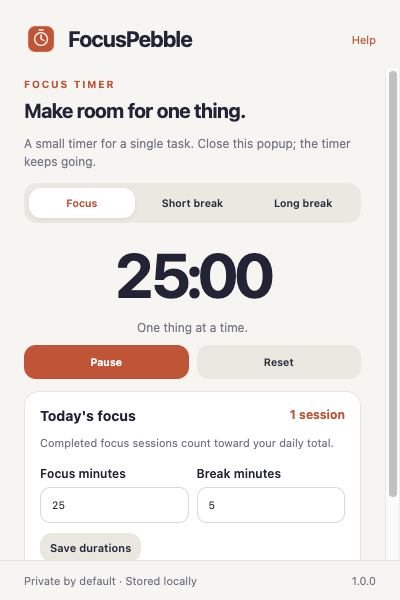
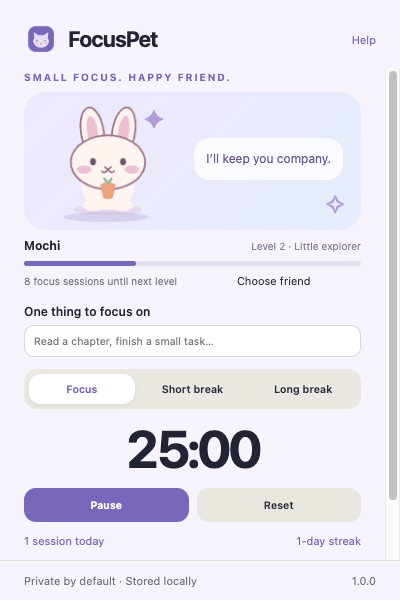
Launch new brand, expanded workflows, and store presentation

diff --git a/extension/background.js b/extension/background.js
@@ -1,9 +1,9 @@
 import {defaults,remaining,finishTimer} from './model.js';
 let queue=Promise.resolve();
 function serialize(work){const result=queue.then(work);queue=result.catch(()=>{});return result;}
-async function read(){const d=await chrome.storage.local.get(['timer','durations','stats']);return {timer:d.timer||{mode:'focus',remaining:25*60000,running:false,finished:false},durations:{...defaults,...d.durations},stats:d.stats||{}};}
-async function finish(){const d=await read();const update=finishTimer(d.timer,d.stats);if(!update)return d;const stats=Object.fromEntries(Object.entries(update.stats).sort(([a],[b])=>b.localeCompare(a)).slice(0,90));await chrome.storage.local.set({timer:update.timer,stats});await chrome.alarms.clear('finish');await chrome.action.setBadgeText({text:''});try{await chrome.notifications.create('focuspebble-done',{type:'basic',iconUrl:'icons/icon128.png',title:d.timer.mode==='focus'?'Focus complete':'Break complete',message:d.timer.mode==='focus'?'Nice work. Take a breath and choose your next step.':'Ready for another focus session?',priority:1});}catch{}return {...d,timer:update.timer,stats};}
-async function handle(message){let d=await finish();let timer={...d.timer};const now=Date.now();switch(message.type){case 'get':return d;case 'start':if(timer.running)return d;if(timer.remaining<=0)timer.remaining=d.durations[timer.mode]*60000;timer={...timer,running:true,finished:false,endAt:now+timer.remaining};break;case 'pause':timer={...timer,remaining:remaining(timer,now),running:false};break;case 'reset':timer={mode:timer.mode,remaining:d.durations[timer.mode]*60000,running:false,finished:false};break;case 'mode':if(!['focus','short','long'].includes(message.mode))throw Error('Invalid mode.');timer={mode:message.mode,remaining:d.durations[message.mode]*60000,running:false,finished:false};break;case 'settings':if(!Number.isInteger(message.focus)||message.focus<1||message.focus>120||!Number.isInteger(message.short)||message.short<1||message.short>60)throw Error('Use whole minutes: focus 1–120, break 1–60.');d.durations={...d.durations,focus:message.focus,short:message.short};await chrome.storage.local.set({durations:d.durations});if(!timer.running)timer={...timer,remaining:d.durations[timer.mode]*60000,finished:false};break;default:throw Error('Unsupported timer action.');}await chrome.storage.local.set({timer});if(timer.running){await chrome.alarms.create('finish',{when:timer.endAt});await chrome.action.setBadgeBackgroundColor({color:'#bf5437'});await chrome.action.setBadgeText({text:timer.mode==='focus'?'ON':'BRK'});}else{await chrome.alarms.clear('finish');await chrome.action.setBadgeText({text:''});}return {...d,timer};}
+async function read(){const d=await chrome.storage.local.get(['timer','durations','stats','pet','task']);return {timer:d.timer||{mode:'focus',remaining:25*60000,running:false,finished:false},durations:{...defaults,...d.durations},stats:d.stats||{},pet:d.pet||{total:Object.values(d.stats||{}).reduce((a,b)=>a+b,0),kind:'cat',name:'Mochi'},task:d.task||''};}
+async function finish(){const d=await read();const update=finishTimer(d.timer,d.stats);if(!update)return d;const stats=Object.fromEntries(Object.entries(update.stats).sort(([a],[b])=>b.localeCompare(a)).slice(0,90));const pet={...d.pet,total:d.pet.total+(d.timer.mode==='focus'?1:0)};await chrome.storage.local.set({timer:update.timer,stats,pet});await chrome.alarms.clear('finish');await chrome.action.setBadgeText({text:''});try{await chrome.notifications.create('focuspebble-done',{type:'basic',iconUrl:'icons/icon128.png',title:d.timer.mode==='focus'?'Focus complete':'Break complete',message:d.timer.mode==='focus'?'Nice work. Take a breath and choose your next step.':'Ready for another focus session?',priority:1});}catch{}return {...d,timer:update.timer,stats,pet};}
+async function handle(message){let d=await finish();let timer={...d.timer};const now=Date.now();switch(message.type){case 'get':return d;case 'task':d.task=String(message.task||'').slice(0,100);await chrome.storage.local.set({task:d.task});return d;case 'pet':if(!['cat','bunny'].includes(message.kind))throw Error('Choose a cat or bunny.');d.pet={...d.pet,kind:message.kind,name:String(message.name||'Mochi').trim().slice(0,30)||'Mochi'};await chrome.storage.local.set({pet:d.pet});return d;case 'start':if(timer.running)return d;if(timer.remaining<=0)timer.remaining=d.durations[timer.mode]*60000;timer={...timer,running:true,finished:false,endAt:now+timer.remaining};break;case 'pause':timer={...timer,remaining:remaining(timer,now),running:false};break;case 'reset':timer={mode:timer.mode,remaining:d.durations[timer.mode]*60000,running:false,finished:false};break;case 'mode':if(!['focus','short','long'].includes(message.mode))throw Error('Invalid mode.');timer={mode:message.mode,remaining:d.durations[message.mode]*60000,running:false,finished:false};break;case 'settings':if(!Number.isInteger(message.focus)||message.focus<1||message.focus>120||!Number.isInteger(message.short)||message.short<1||message.short>60)throw Error('Use whole minutes: focus 1–120, break 1–60.');d.durations={...d.durations,focus:message.focus,short:message.short};await chrome.storage.local.set({durations:d.durations});if(!timer.running)timer={...timer,remaining:d.durations[timer.mode]*60000,finished:false};break;default:throw Error('Unsupported timer action.');}await chrome.storage.local.set({timer});if(timer.running){await chrome.alarms.create('finish',{when:timer.endAt});await chrome.action.setBadgeBackgroundColor({color:'#bf5437'});await chrome.action.setBadgeText({text:timer.mode==='focus'?'ON':'BRK'});}else{await chrome.alarms.clear('finish');await chrome.action.setBadgeText({text:''});}return {...d,timer};}
 chrome.runtime.onMessage.addListener((message,sender,respond)=>{if(sender.id!==chrome.runtime.id)return;serialize(()=>handle(message)).then(data=>respond({ok:true,data}),error=>respond({ok:false,error:error.message}));return true;});
 chrome.alarms.onAlarm.addListener(alarm=>{if(alarm.name==='finish')serialize(finish);});
 async function recover(){const d=await finish();if(d.timer.running)await chrome.alarms.create('finish',{when:d.timer.endAt});}

diff --git a/extension/popup.js b/extension/popup.js
@@ -1,8 +1,6 @@
-import {$,status} from './shared.js';import {remaining,localDay} from './model.js';let state;
-function clock(){if(!state)return;const seconds=Math.ceil(remaining(state.timer)/1000);$('#clock').textContent=`${String(Math.floor(seconds/60)).padStart(2,'0')}:${String(seconds%60).padStart(2,'0')}`;if(state.timer.running&&seconds===0)send('get').catch(()=>{});}
-function render(){const t=state.timer;document.querySelectorAll('[data-mode]').forEach(e=>e.classList.toggle('selected',e.dataset.mode===t.mode));$('#start').textContent=t.running?'Pause':`Start ${t.mode==='focus'?'focus':'break'}`;$('#timer-label').textContent=t.running?'One thing at a time.':t.finished?'Finished. Choose a break or start again.':t.remaining<state.durations[t.mode]*60000?'Paused. Resume when ready.':'Ready when you are.';$('#completed').textContent=`${state.stats[localDay(Date.now())]||0} ${(state.stats[localDay(Date.now())]||0)===1?'session':'sessions'}`;clock();}
-async function send(type,extra={}){const response=await chrome.runtime.sendMessage({type,...extra});if(!response?.ok)throw Error(response?.error||'Timer unavailable. Reopen the popup.');state=response.data;render();return state;}
+import {$,status,node} from './shared.js';import {remaining,localDay,petStage,streak} from './model.js';let state,pending=false;
+function clock(){if(!state)return;const seconds=Math.ceil(remaining(state.timer)/1000);$('#clock').textContent=`${String(Math.floor(seconds/60)).padStart(2,'0')}:${String(seconds%60).padStart(2,'0')}`;if(state.timer.running&&seconds===0&&!pending)send('get').catch(()=>{});}
+function render(){const t=state.timer,pet=state.pet,stage=petStage(pet.total);document.querySelectorAll('[data-mode]').forEach(e=>e.classList.toggle('selected',e.dataset.mode===t.mode));$('#start').textContent=t.running?'Pause':`Start ${t.mode==='focus'?'focus':'break'}`;$('#pet-scene').classList.toggle('working',t.running&&t.mode==='focus');$('#pet-scene').classList.toggle('resting',!t.running||t.mode!=='focus');$('#pet-image').src=`pets/${pet.kind}.svg`;$('#pet-name').textContent=pet.name;$('#pet-level').textContent=`Level ${stage.level} · ${stage.name}`;$('#pet-bubble').textContent=t.finished?'You did it. Take a little breath.':t.running?(t.mode==='focus'?'I’ll keep you company.':'Time to stretch our paws.'):'Let’s do one small thing.';$('#growth-bar').style.width=`${stage.next?Math.min(100,pet.total/stage.next*100):100}%`;$('#growth-label').textContent=stage.next?`${stage.next-pet.total} focus sessions until next level`:'Your little moon guardian is all grown up.';const count=state.stats[localDay(Date.now())]||0;$('#completed').textContent=`${count} ${count===1?'session':'sessions'} today`;const days=streak(state.stats);$('#streak').textContent=days?`${days}-day streak`:'A fresh start';const week=$('#week');week.replaceChildren();for(let i=6;i>=0;i--){const d=new Date();d.setDate(d.getDate()-i);const n=state.stats[localDay(d.getTime())]||0;const col=node('div',undefined,'week-day');const bar=node('div',undefined,'week-bar');bar.style.height=`${Math.min(50,n*8)+4}px`;bar.title=`${n} sessions`;col.append(node('span',String(n),'muted'),bar,node('span',d.toLocaleDateString(undefined,{weekday:'narrow'}),'muted'));week.append(col);}clock();}
+async function send(type,extra={}){pending=true;try{const response=await chrome.runtime.sendMessage({type,...extra});if(!response?.ok)throw Error(response?.error||'Timer unavailable. Reopen the popup.');state=response.data;render();return state;}finally{pending=false;}}
 async function run(type,extra){try{await send(type,extra);status('');}catch(e){status(e.message);}}
-$('#start').onclick=()=>run(state?.timer.running?'pause':'start');$('#reset').onclick=()=>run('reset');document.querySelectorAll('[data-mode]').forEach(e=>e.onclick=async()=>{if(state?.timer.running&&!confirm('Stop the current timer and switch modes?'))return;await run('mode',{mode:e.dataset.mode});});
-$('#settings').onclick=async()=>{await run('settings',{focus:Number($('#focus-minutes').value),short:Number($('#break-minutes').value)});};
-send('get').then(d=>{$('#focus-minutes').value=d.durations.focus;$('#break-minutes').value=d.durations.short;}).catch(e=>status(e.message));setInterval(clock,500);chrome.storage.onChanged.addListener((_,area)=>{if(area==='local')send('get').catch(e=>status(e.message));});
+$('#start').onclick=async()=>{if(!state)return;await run('task',{task:$('#task').value});await run(state.timer.running?'pause':'start');};$('#task').onchange=()=>run('task',{task:$('#task').value});$('#reset').onclick=()=>run('reset');document.querySelectorAll('[data-mode]').forEach(e=>e.onclick=async()=>{if(state?.timer.running&&!confirm('Stop the current timer and switch modes?'))return;await run('mode',{mode:e.dataset.mode});});$('#settings').onclick=()=>run('settings',{focus:Number($('#focus-minutes').value),short:Number($('#break-minutes').value)});$('#customize').onclick=()=>{$('#custom-panel').hidden=!$('#custom-panel').hidden;$('#pet-kind').value=state.pet.kind;$('#pet-name-input').value=state.pet.name;};$('#save-pet').onclick=async()=>{await run('pet',{kind:$('#pet-kind').value,name:$('#pet-name-input').value});$('#custom-panel').hidden=true;};send('get').then(d=>{$('#focus-minutes').value=d.durations.focus;$('#break-minutes').value=d.durations.short;$('#task').value=d.task;}).catch(e=>status(e.message));setInterval(clock,500);chrome.storage.onChanged.addListener((_,area)=>{if(area==='local')send('get').catch(e=>status(e.message));});

diff --git a/extension/popup.html b/extension/popup.html
@@ -1,1 +1,1 @@
-<!doctype html><html lang="en"><head><meta charset="utf-8"><meta name="viewport" content="width=device-width,initial-scale=1"><title>FocusPebble</title><link rel="stylesheet" href="style.css"></head><body><header><div><img src="icons/icon48.png" alt=""><h1>FocusPebble</h1></div><a class="brand-link" href="privacy.html" target="_blank">Help</a></header><main><div class="eyebrow">FOCUS TIMER</div><h2>Make room for one thing.</h2><p class="muted">A small timer for a single task. Close this popup; the timer keeps going.</p><div class="tabs"><button data-mode="focus" class="selected">Focus</button><button data-mode="short">Short break</button><button data-mode="long">Long break</button></div><div id="clock" class="clock" role="timer" aria-label="Time remaining">25:00</div><p class="center muted" id="timer-label">Ready when you are.</p><div class="row"><button id="start" class="primary">Start focus</button><button id="reset">Reset</button></div><section class="card"><div class="note-title"><h3>Today's focus</h3><span id="completed" class="count">0 sessions</span></div><p class="muted">Completed focus sessions count toward your daily total.</p><div class="row"><div><label for="focus-minutes">Focus minutes</label><input id="focus-minutes" type="number" min="1" max="120" value="25"></div><div><label for="break-minutes">Break minutes</label><input id="break-minutes" type="number" min="1" max="60" value="5"></div></div><button id="settings" class="small" style="margin-top:10px">Save durations</button></section><p id="status" class="status" role="status" aria-live="polite"></p></main><footer><span>Private by default · Stored locally</span><span>1.0.0</span></footer><script type="module" src="popup.js"></script></body></html>
+<!doctype html><html lang="en"><head><meta charset="utf-8"><meta name="viewport" content="width=device-width,initial-scale=1"><title>FocusPet</title><link rel="stylesheet" href="style.css"></head><body><header><div><img src="icons/icon48.png" alt=""><h1>FocusPet</h1></div><a class="brand-link" href="privacy.html" target="_blank">Help</a></header><main><div class="eyebrow">SMALL FOCUS. HAPPY FRIEND.</div><div class="pet-scene" id="pet-scene"><div class="spark s1">✦</div><div class="spark s2">✧</div><img id="pet-image" src="pets/cat.svg" alt="Your focus companion"><div class="pet-shadow"></div><span class="pet-bubble" id="pet-bubble">Let's do one small thing.</span></div><div class="pet-info"><strong id="pet-name">Mochi</strong><span id="pet-level">Level 1 · Sleepy seedling</span></div><div class="growth"><div id="growth-bar"></div></div><div class="row"><span class="muted" id="growth-label">4 focus sessions to grow</span><button id="customize" class="quiet small">Choose friend</button></div><section id="custom-panel" class="card" hidden><label for="pet-kind">Your companion</label><div class="row"><select id="pet-kind"><option value="cat">Cat</option><option value="bunny">Bunny</option></select><input id="pet-name-input" maxlength="30" placeholder="Friend's name" aria-label="Companion name"><button id="save-pet" class="primary small">Save</button></div></section><label for="task">One thing to focus on</label><input id="task" maxlength="100" placeholder="Read a chapter, finish a small task…"><div class="tabs" style="margin-top:12px"><button data-mode="focus" class="selected">Focus</button><button data-mode="short">Short break</button><button data-mode="long">Long break</button></div><div id="clock" class="clock" role="timer" aria-label="Time remaining">25:00</div><div class="row"><button id="start" class="primary">Start focus</button><button id="reset">Reset</button></div><div class="daily-summary"><span id="completed">0 sessions today</span><span id="streak">A fresh start</span></div><details class="settings-details"><summary>Timer settings & weekly progress</summary><div class="row"><div><label for="focus-minutes">Focus minutes</label><input id="focus-minutes" type="number" min="1" max="120" value="25"></div><div><label for="break-minutes">Break minutes</label><input id="break-minutes" type="number" min="1" max="60" value="5"></div></div><button id="settings" class="small" style="margin-top:10px">Save durations</button><div id="week" class="week"></div></details><p id="status" class="status" role="status" aria-live="polite"></p></main><footer><span>Private by default · Stored locally</span><span>1.1.0</span></footer><script type="module" src="popup.js"></script></body></html>

diff --git a/extension/style.css b/extension/style.css
@@ -4,3 +4,5 @@
 body:not(.library){height:600px;display:flex;flex-direction:column}body:not(.library) main{flex:1;overflow-y:auto;min-height:0}body:not(.library) header,body:not(.library) footer{flex-shrink:0}.library{display:block;height:auto}
 
 .clock{font-size:62px;margin:15px 0 5px}.center{margin:8px 0}.card p{font-size:11px}.card label{margin-top:8px}
+
+:root{--accent:#7867ba;background:#f7f4fd}.pet-scene{position:relative;height:138px;margin:9px 0 4px;background:linear-gradient(135deg,#efe8fc,#e4edfb);border-radius:22px;overflow:hidden}.pet-scene>img{position:absolute;bottom:7px;left:24px;width:120px;height:120px;z-index:2}.pet-shadow{position:absolute;bottom:8px;left:40px;width:84px;height:10px;background:#b8aed8;border-radius:50%;opacity:.4}.pet-bubble{position:absolute;right:18px;top:46px;max-width:155px;font-size:12px;line-height:1.5;background:#fffc;padding:12px;border-radius:16px;color:#66558c}.spark{position:absolute;color:#b19cd9;font-size:25px}.s1{top:12px;left:120px}.s2{right:16px;bottom:12px}.working>img{animation:bob 3s ease-in-out infinite}.resting>img{animation:breath 5s ease-in-out infinite}@keyframes bob{50%{transform:translateY(-5px) rotate(2deg)}}@keyframes breath{50%{transform:scale(1.03)}}@media(prefers-reduced-motion:reduce){.working>img,.resting>img{animation:none}}.pet-info{display:flex;justify-content:space-between;align-items:center;margin:8px 0;font-size:12px}.pet-info>span{color:#867991;font-size:10px}.growth{height:5px;background:#e6dff1;border-radius:5px;overflow:hidden}.growth>div{height:100%;background:var(--accent);border-radius:5px}.clock{font-size:52px;margin:9px 0;letter-spacing:-3px}.daily-summary{display:flex;justify-content:space-between;font-size:11px;color:var(--accent);margin:12px 0}.settings-details{font-size:12px;color:#777182;margin-top:8px}.settings-details summary{cursor:pointer}.week{display:flex;gap:9px;justify-content:space-between;align-items:flex-end;height:85px;margin-top:12px}.week-day{display:flex;align-items:center;flex-direction:column;gap:3px;flex:1}.week-bar{width:22px;background:#bca7e3;border-radius:4px}.primary{background:var(--accent)}body:not(.library) main{padding-top:3px}#task{padding:9px}label{margin-top:9px}#growth-label{font-size:10px}

diff --git a/tests/model.test.js b/tests/model.test.js
@@ -2,3 +2,5 @@ import {test} from 'node:test';import assert from 'node:assert/strict';import {r
 test('remaining time uses absolute deadline across restarts',()=>{assert.equal(remaining({running:true,endAt:10000},7500),2500);assert.equal(remaining({running:true,endAt:10000},11000),0);assert.equal(remaining({running:false,remaining:3200},90000),3200);});
 test('records expired focus once and assigns its planned completion day',()=>{const endAt=new Date(2026,1,2,23,59).getTime();const done=finishTimer({running:true,endAt,mode:'focus'}, {},endAt+100000);assert.equal(done.stats[localDay(endAt)],1);assert.equal(finishTimer(done.timer,done.stats,endAt+200000),null);});
 test('breaks do not increase focus count and future alarms do not complete',()=>{assert.equal(finishTimer({running:true,endAt:1000,mode:'focus'}, {},999),null);assert.deepEqual(finishTimer({running:true,endAt:1000,mode:'short'}, {},1001).stats,{});});
+import {petStage,streak} from '../extension/model.js';
+test('companion levels and recent streak follow completed work',()=>{assert.equal(petStage(3).level,1);assert.equal(petStage(4).level,2);assert.equal(petStage(30).next,null);const today=new Date(2026,9,16,12).getTime();const yesterday=new Date(2026,9,15,12).getTime();assert.equal(streak({[localDay(today)]:1,[localDay(yesterday)]:2},today),2);assert.equal(streak({[localDay(yesterday)]:1},today),1);});

diff --git a/extension/model.js b/extension/model.js
@@ -2,3 +2,6 @@ export const defaults={focus:25,short:5,long:15};
 export function remaining(timer,now=Date.now()){return Math.max(0,timer.running?timer.endAt-now:timer.remaining);}
 export function localDay(now){const d=new Date(now);return `${d.getFullYear()}-${String(d.getMonth()+1).padStart(2,'0')}-${String(d.getDate()).padStart(2,'0')}`;}
 export function finishTimer(timer,stats,now=Date.now()){if(!timer.running||timer.endAt>now)return null;const day=localDay(timer.endAt);return {timer:{...timer,running:false,remaining:0,finished:true},stats:timer.mode==='focus'?{...(stats||{}),[day]:((stats||{})[day]||0)+1}:stats||{}};}
+
+export function petStage(total=0){if(total>=30)return {name:'Moon guardian',level:4,next:null};if(total>=12)return {name:'Study buddy',level:3,next:30};if(total>=4)return {name:'Little explorer',level:2,next:12};return {name:'Sleepy seedling',level:1,next:4};}
+export function streak(stats,now=Date.now()){let count=0;const d=new Date(now);if(!(stats[localDay(d.getTime())]>0))d.setDate(d.getDate()-1);while(stats[localDay(d.getTime())]>0){count++;d.setDate(d.getDate()-1);}return count;}

diff --git a/scripts/package.py b/scripts/package.py
@@ -14,7 +14,7 @@ out.parent.mkdir(exist_ok=True)
 with ZipFile(out,'w',ZIP_DEFLATED) as z:
  for p in sorted(source.rglob('*')):
   if p.is_file() and not p.name.startswith('.'):
-   assert p.suffix in {'.json','.html','.css','.js','.png'}
+   assert p.suffix in {'.json','.html','.css','.js','.png','.svg'}
    z.write(p,p.relative_to(source))
 with ZipFile(out) as z: assert z.testzip() is None
 print(f"Validated {m['name']}; created {out.relative_to(ROOT)} ({out.stat().st_size} bytes)")

diff --git a/README.md b/README.md
@@ -1,40 +1,40 @@
-# FocusPebble
+# FocusPet
 
-Make room for one thing.
+A little friend for your next small win.
 
-A simple focus and break timer with browser notifications. Keep your timer across restarts and build a daily focus habit.
+Meet Mochi. Choose a tiny cat or bunny, give your friend a name, and focus on one thing together. Completed focus sessions help your companion grow through four stages.
+
+## Features
+
+- Choose a cat or bunny and customize its name.
+- Grow your companion by finishing focus sessions.
+- Set a task intention and use focus, short-break, or long-break timers.
+- Pause, resume, reset, and adjust focus and short-break durations.
+- Get completion notifications and a running toolbar badge.
+- See daily counts, a recent streak, and weekly focus progress.
+
+## Limits
+
+Your companion is a visual focus aid, not a website blocker. Timers use absolute deadlines and keep their state across popup closure and browser restarts. Notifications can arrive late if Chrome is closed, the device is asleep, or operating-system notification settings block them. FocusPet does not automatically start the next session. Growth reflects completed focus sessions, not measured attention.
 
 ## Development
 
-Open `chrome://extensions`, enable Developer mode, choose **Load unpacked**, and select `extension/`. No build or package dependencies are needed.
+Open `chrome://extensions`, enable Developer mode, choose **Load unpacked**, and select `extension/`. All runtime assets are packaged locally.
 
-Run `npm test` for logic tests and `npm run package` to validate and create a clean ZIP in `dist/`.
+Run `npm test` for logic tests. Run `npm run package` to validate and create an upload ZIP in `dist/`. No build step or runtime package dependencies are required.
 
 ## Privacy
 
-See [PRIVACY.md](PRIVACY.md) for stored data and permission explanations. No accounts, analytics, ads, or developer servers.
+Local data includes timer state, durations, task intention, companion type and name, total completed focus sessions, and up to 90 days of daily counts. No page content or browsing history is accessed.
+
+`storage` persists timer state and companion progress. `alarms` schedules timer completion. `notifications` displays generic completion messages.
+
+See [PRIVACY.md](PRIVACY.md). No developer servers, advertising, or analytics.
 
 ## Support
 
-Report bugs through this repository's issue tracker. Include reproducible steps and the extension version, with private information removed.
+Report reproducible bugs through this repository's issue tracker. Remove private information first.
 
 ## License
 
 MIT.
-
-## Features and limits
-
-FocusPebble is a small focus timer that stays out of your way. Start a focus session, close the popup, and get a browser notification when it finishes.
-
-FEATURES
-- Focus, short break, and long break modes.
-- Adjustable focus and short-break durations; a 15-minute long break.
-- Pause, resume, and reset controls.
-- An absolute deadline that survives popup closure and browser restart.
-- Local daily counts for completed focus sessions.
-- A toolbar badge while the timer is running.
-
-The timer does not block websites or start the next session automatically. Browser notifications depend on Chrome and operating-system notification settings. If the computer sleeps or Chrome is closed, a notification can arrive after waking or reopening Chrome.
-
-PRIVACY
-Timer state, durations, and daily completion counts stay on this device. No accounts, analytics, advertising, or developer servers.

diff --git a/PRIVACY.md b/PRIVACY.md
@@ -1,23 +1,21 @@
-# FocusPebble privacy policy
+# FocusPet privacy policy
 
 Effective date: 2026-10-16.
 
-## Data and processing
+## Local data and processing
 
-Timer mode, deadline, remaining time, duration settings, and daily completed-focus counts for up to 90 days. No page content or browsing history.
+Local data includes timer state, durations, task intention, companion type and name, total completed focus sessions, and up to 90 days of daily counts. No page content or browsing history is accessed.
 
-All processing happens within the extension on your device. We do not collect, receive, transmit, sell, or share personal data. The extension has no analytics, advertising, remote executable code, developer server, or account requirement.
+Processing happens on your device. The developer does not receive, sell, or transmit this data. The extension has no developer servers, accounts, cloud sync, analytics, advertising, or remote executable code. Local processing can involve sensitive text or URLs supplied by you; the store disclosures describe the data handled by the extension even though it is not sent to the developer.
 
 ## Permissions
 
-- `storage`: save timer state and daily counts.
-- `alarms`: schedule completion while the popup is closed.
-- `notifications`: show completion notifications.
+`storage` persists timer state and companion progress. `alarms` schedules timer completion. `notifications` displays generic completion messages.
 
 ## Retention and control
 
-Local data remains until you remove it through the app, clear extension data, or uninstall the extension. Export and delete controls are available for saved collections and notes. Exported files are controlled by you and may contain private information. Chrome and the Web Store have separate Google privacy policies.
+Local saved data remains until you delete it, clear extension data, or uninstall the extension. Exported files and clipboard contents are controlled by you. The library and collection tools provide delete and backup controls. LinkLoom keeps no persistent link history. FocusPet retains up to 90 days of daily counts and a lifetime companion total. Chrome and its Web Store have separate Google privacy policies.
 
 ## Contact
 
-Use the repository issue tracker or the Chrome Web Store support contact for privacy questions. Do not post private data in public issues.
+Use this repository's issue tracker or the Chrome Web Store support contact for privacy questions. Do not post private content in public issues.

diff --git a/store/listing.md b/store/listing.md
@@ -1,8 +1,8 @@
-# FocusPebble
+# FocusPet
 
 ## Category
 
-Productivity
+Workflow & Planning
 
 ## Language
 
@@ -10,17 +10,23 @@ English
 
 ## Description
 
-FocusPebble is a small focus timer that stays out of your way. Start a focus session, close the popup, and get a browser notification when it finishes.
+A little friend for your next small win.
+
+Meet Mochi. Choose a tiny cat or bunny, give your friend a name, and focus on one thing together. Completed focus sessions help your companion grow through four stages.
 
 FEATURES
-- Focus, short break, and long break modes.
-- Adjustable focus and short-break durations; a 15-minute long break.
-- Pause, resume, and reset controls.
-- An absolute deadline that survives popup closure and browser restart.
-- Local daily counts for completed focus sessions.
-- A toolbar badge while the timer is running.
+- Choose a cat or bunny and customize its name.
+- Grow your companion by finishing focus sessions.
+- Set a task intention and use focus, short-break, or long-break timers.
+- Pause, resume, reset, and adjust focus and short-break durations.
+- Get completion notifications and a running toolbar badge.
+- See daily counts, a recent streak, and weekly focus progress.
 
-The timer does not block websites or start the next session automatically. Browser notifications depend on Chrome and operating-system notification settings. If the computer sleeps or Chrome is closed, a notification can arrive after waking or reopening Chrome.
+GOOD TO KNOW
+Your companion is a visual focus aid, not a website blocker. Timers use absolute deadlines and keep their state across popup closure and browser restarts. Notifications can arrive late if Chrome is closed, the device is asleep, or operating-system notification settings block them. FocusPet does not automatically start the next session. Growth reflects completed focus sessions, not measured attention.
 
-PRIVACY
-Timer state, durations, and daily completion counts stay on this device. No accounts, analytics, advertising, or developer servers.
+PRIVATE BY DEFAULT
+No account, analytics, advertising, cloud synchronization, or developer servers. Processing happens on your device. Saved data uses local extension storage. Exported files may contain private information; keep them somewhere you trust.
+
+SUPPORT
+Report bugs or suggestions through the support link. Please remove private URLs, notes, and credentials from reports.

diff --git a/store/asset-notes.md b/store/asset-notes.md
@@ -1,0 +1,5 @@
+# Store assets
+
+Promotional artwork uses the extension's original vector and geometric mascot system. Overview images combine promotional typography with an actual isolated-browser UI capture. Capture content uses fictional example domains and local data. No user account information is included.
+
+Required assets: RGB PNG overview at 1280×800 and small promotional tile at 440×280. Optional marquee: RGB PNG at 1400×560. Icons use RGBA PNG at 16, 32, 48, and 128 pixels.

diff --git a/store/reviewer-instructions.md b/store/reviewer-instructions.md
@@ -1,0 +1,3 @@
+# Reviewer instructions
+
+Open FocusPet, choose a friend, and start a focus session. Close and reopen the popup; the deadline remains. Pause and resume. For a quick test set focus to 1 minute. Completion awards one growth session and a notification, if allowed. No login is needed.
